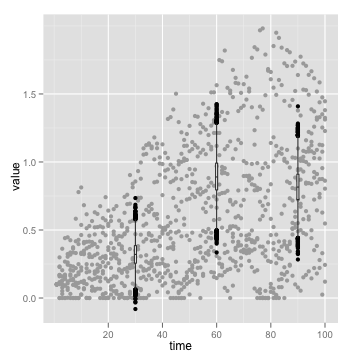
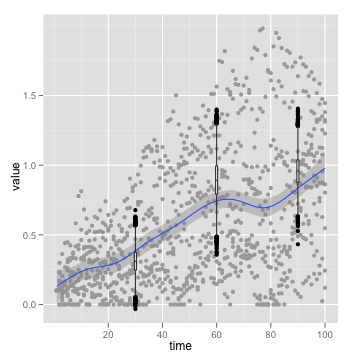
toy trend v status example, revised to add smooth

diff --git a/monitoring_knit_.md b/monitoring_knit_.md
@@ -136,9 +136,10 @@ Three "populations" sampled every 30 units
 require(bbmle)
 require(ggplot2)
 SAMPLE=c(3,6,9)
-
+r.d$mean <- 
 r.m <- melt(r.d, id.vars=c('time'))
 g <- ggplot()+geom_point(aes(time, value), color='darkgrey', data=r.m)
+g <- g+geom_smooth(aes(time,value), data=r.m)
 for(time in SAMPLE*10){
   sub.d <- list(tot=t(sample(r.d[time,1:10], size=9)))
   ml.t <- mle2(tot~dnorm(mean=mu, sd=sigma), data=sub.d, start=list(mu=mean(sub.d$tot), sigma=sd(sub.d$tot)))
@@ -153,12 +154,10 @@ end.rcode-->
   
 **Likelihood**, treated like independent samples (no population model)
 
-
-
-
   
 <!--begin.rcode est-recov-bayes,echo=FALSE,cache=TRUE,warning=FALSE  
 g <- ggplot()+geom_point(aes(time, value), color='darkgrey', data=r.m)
+g <- g+geom_smooth(aes(time,value), data=r.m)
 prior <- NULL
 for(time in SAMPLE*10){
   sub.d <- list(tot=t(sample(r.d[time,1:10], size=9)))

diff --git a/monitoring.md b/monitoring.md
@@ -85,13 +85,13 @@ Three "populations" sampled every 30 units
 
 
   
+```
+## Error: replacement has 1000 rows, data has 100
+```
 ![plot of chunk est-recov-lik](https://github.com/ashander/sandbox/raw/master/est-recov-lik.png)
 
   
 **Likelihood**, treated like independent samples (no population model)
-
-
-
 
   
 ![plot of chunk est-recov-bayes](https://github.com/ashander/sandbox/raw/master/est-recov-bayes.png)
